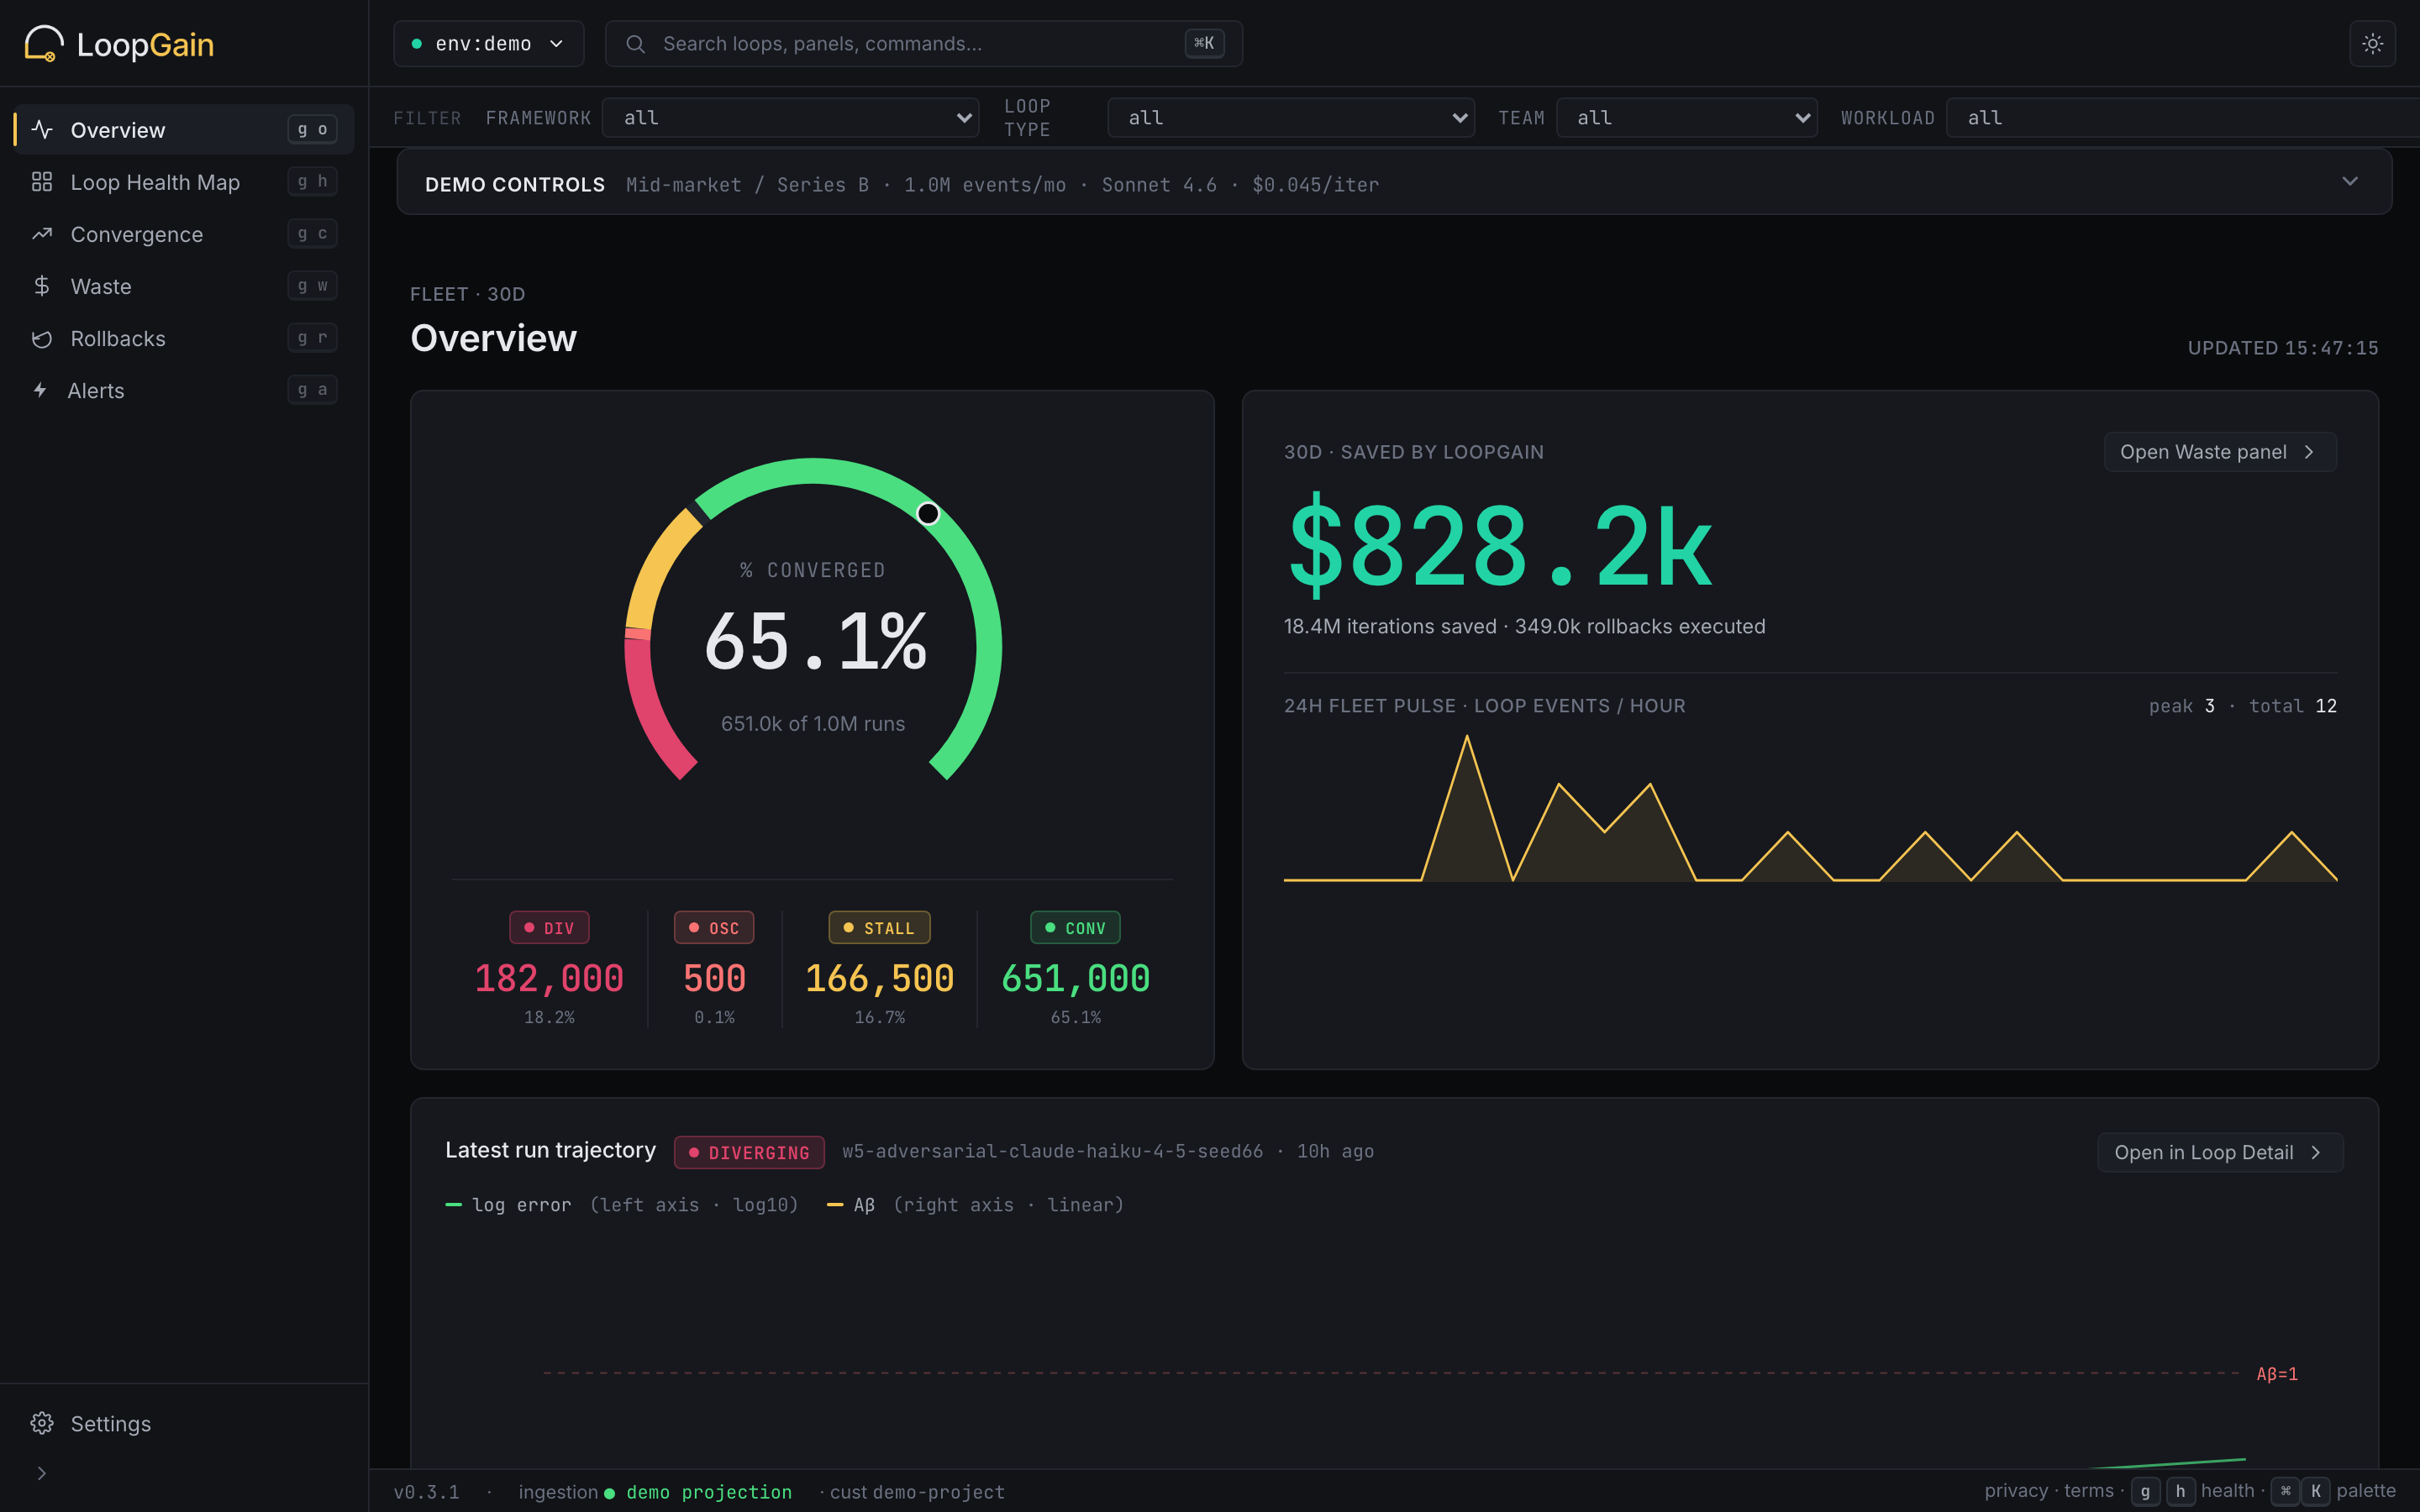
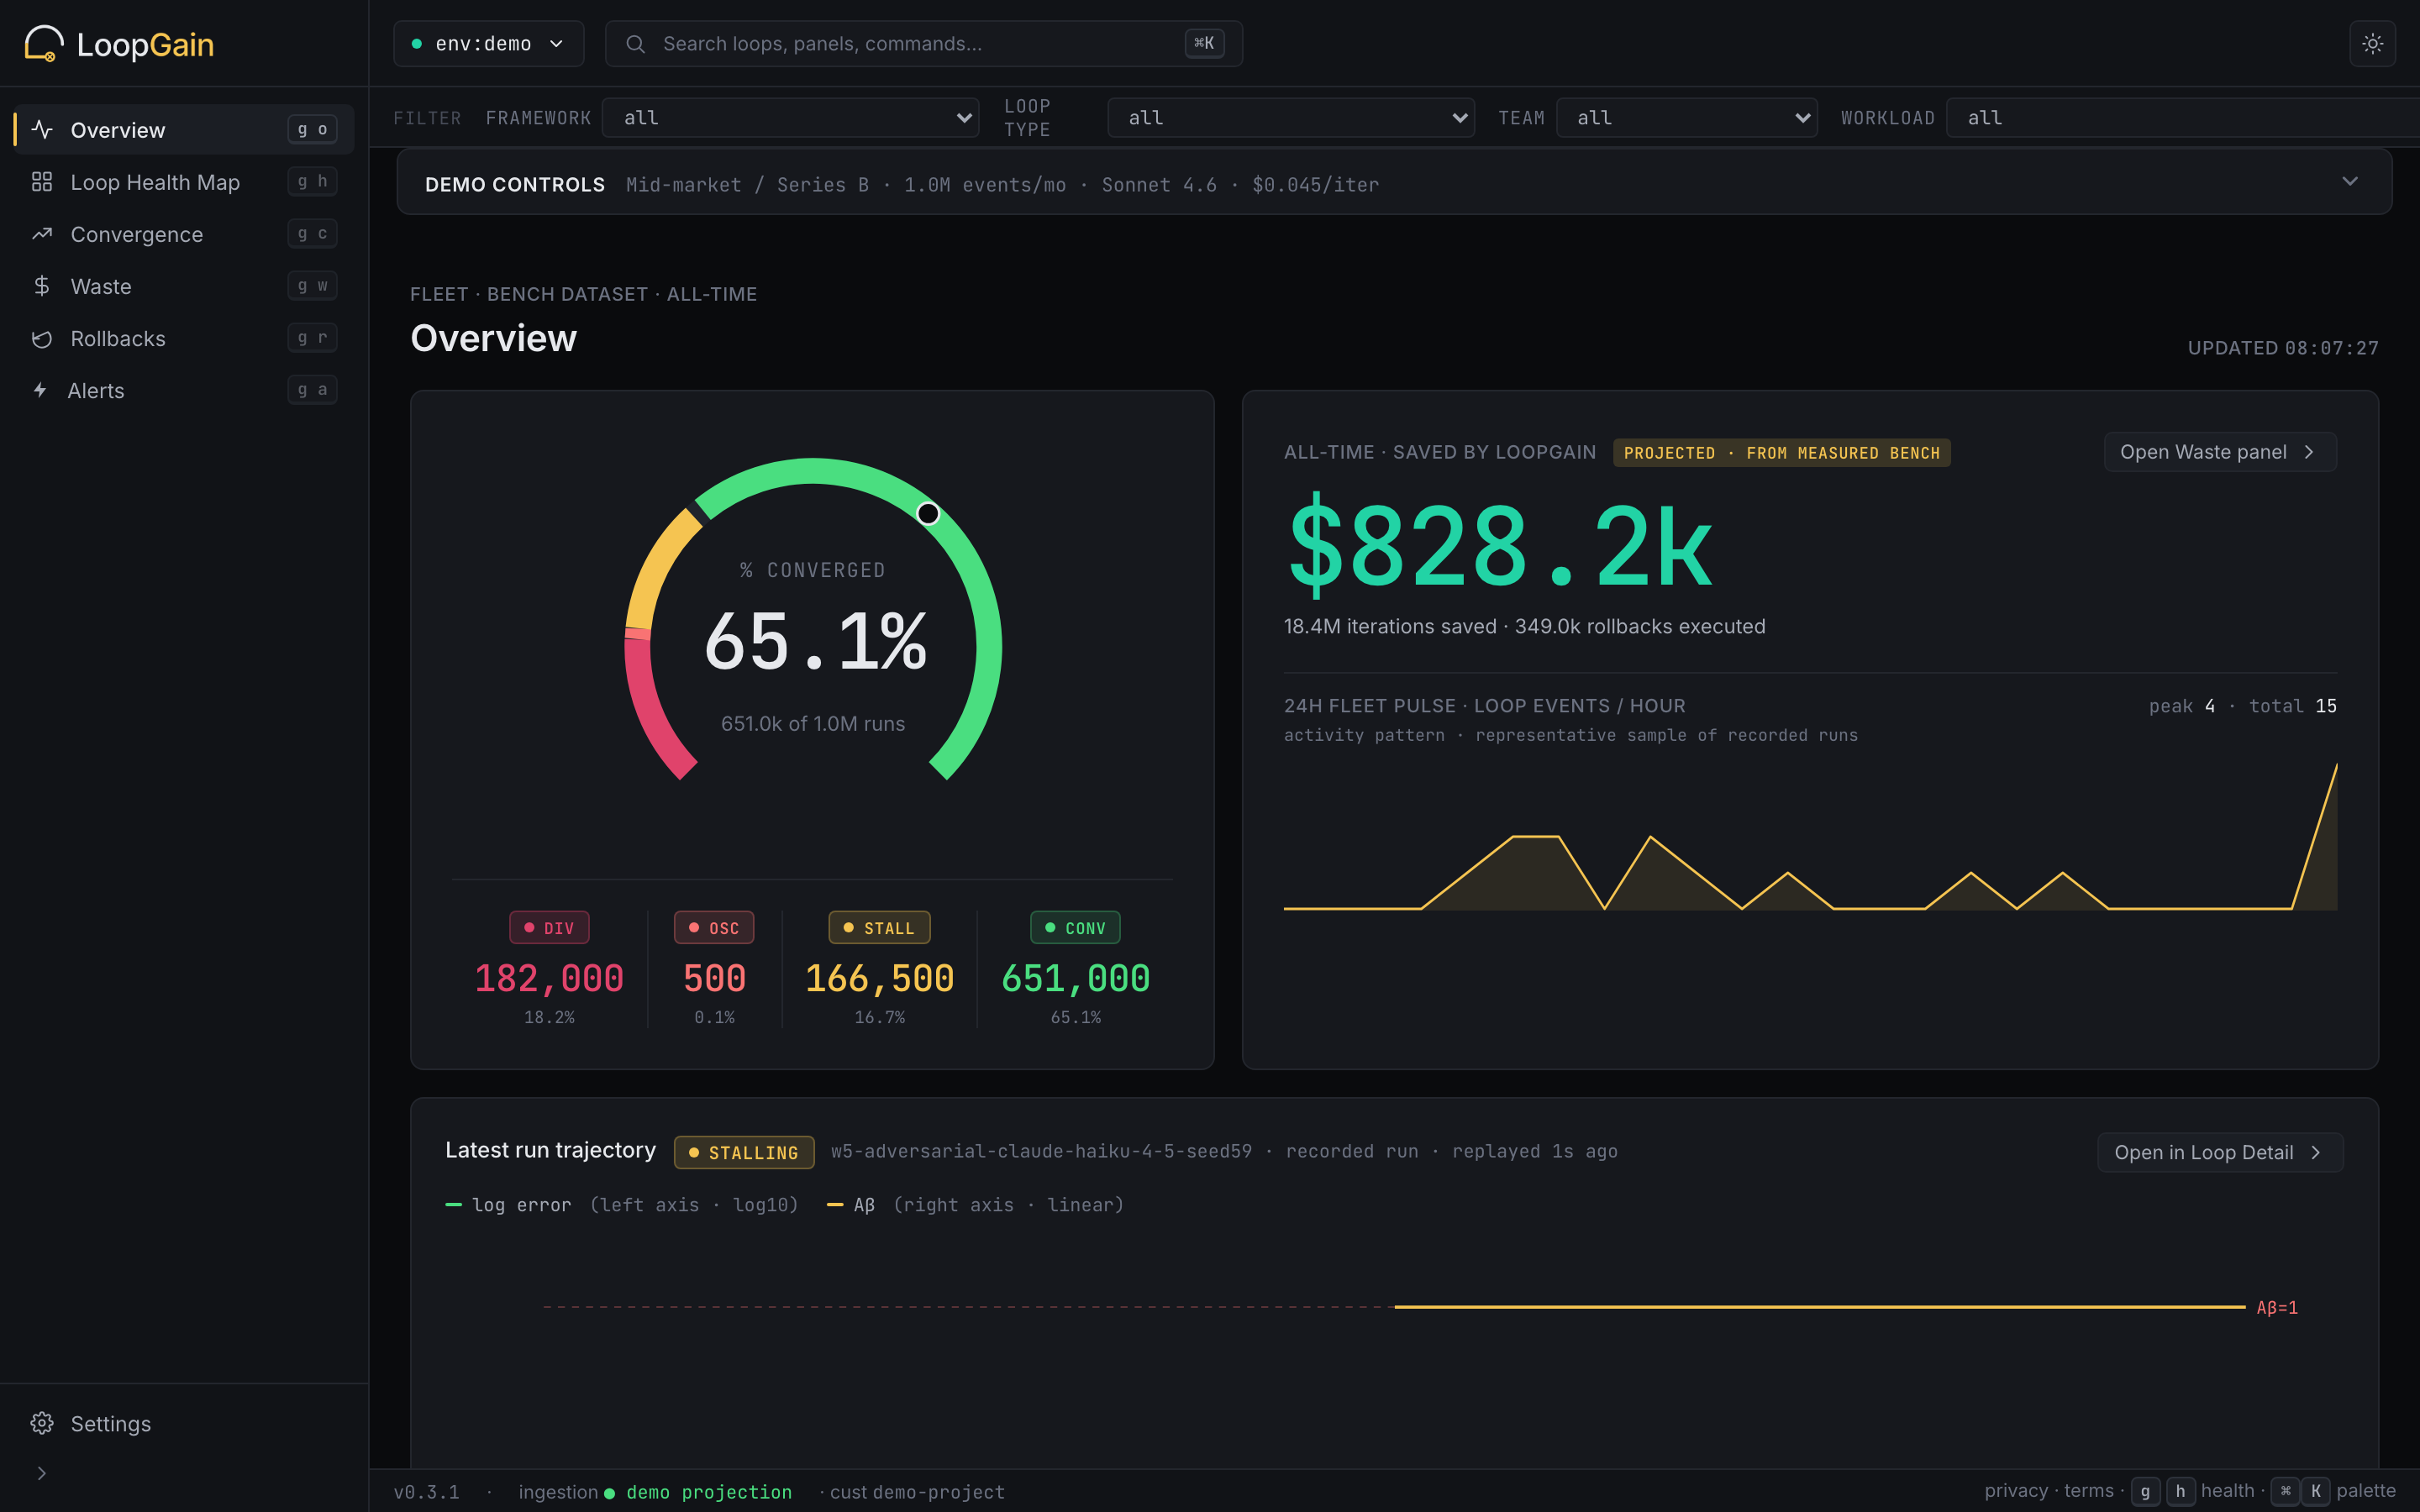
§07: live-replay phrasing + fresh screenshot of the shipped demo
- Copy: 'live demo' → live-replay framing ('replays recorded benchmark
  runs — no live inference'); alt text says projected $828.2k and notes
  the trajectory is replaying a recorded run.
- Screenshot recaptured from the deployed dashboard.loopgain.ai/demo:
  PROJECTED · FROM MEASURED BENCH badge, all-time window labels, live
  replay visible in the latest-run trajectory header.

Claude-Session: https://claude.ai/code/session_01EveD1Bw4Yo3iH5t8HXysYj

diff --git a/index.html b/index.html
@@ -702,7 +702,7 @@ outcome:        <span class="tk-stall">stalled</span>
     <span class="eyebrow mono">§07 · hosted dashboard</span>
     <h2>The same readings, on a screen built for an operations room.</h2>
     <p class="section-sub">
-      Six panels over your real fleet: Overview, Loop Health Map, Convergence, Waste Report, Rollback Log, and Alerts on band transitions. Below is the live demo itself at mid-market scale (~1M loop events/month) — the public benchmark data projected to a fleet of <em>your</em> size. Open it and poke at every panel without integrating first.
+      Six panels over your real fleet: Overview, Loop Health Map, Convergence, Waste Report, Rollback Log, and Alerts on band transitions. Below is the demo itself at mid-market scale (~1M loop events/month) — the public benchmark data projected to a fleet of <em>your</em> size, with a live replay of real recorded benchmark runs flowing through the feed. Open it and poke at every panel without integrating first.
     </p>
   </div>
 
@@ -711,17 +711,17 @@ outcome:        <span class="tk-stall">stalled</span>
       src="/dashboard-demo-1440.png"
       srcset="/dashboard-demo-1440.png 1x, /dashboard-demo.png 2x"
       width="1440" height="900"
-      alt="LoopGain hosted dashboard in demo mode: the fleet Overview with a converged-rate gauge at 65.1%, $828.2k saved by LoopGain over 30 days, a 24-hour fleet pulse chart, and the latest run trajectory."
+      alt="LoopGain hosted dashboard in demo mode: the fleet Overview with a converged-rate gauge at 65.1%, a projected $828.2k saved by LoopGain, a 24-hour fleet pulse chart, and the latest run trajectory replaying a recorded benchmark run."
       loading="lazy" decoding="async"
     />
   </figure>
 
   <div class="dash-cta">
     <a class="btn btn-amber" href="https://dashboard.loopgain.ai" rel="noopener">
-      view live demo
+      open the live-replay demo
       <svg width="12" height="12" viewBox="0 0 12 12" aria-hidden="true"><path d="M3 9 L9 3 M5 3 H9 V7" stroke="currentColor" stroke-width="1.4" fill="none" stroke-linecap="round"/></svg>
     </a>
-    <span class="dash-cta-note mono">demo built from the public benchmark data. no auth, no signup.</span>
+    <span class="dash-cta-note mono">replays recorded benchmark runs — no live inference, no auth, no signup.</span>
   </div>
 </section>
 